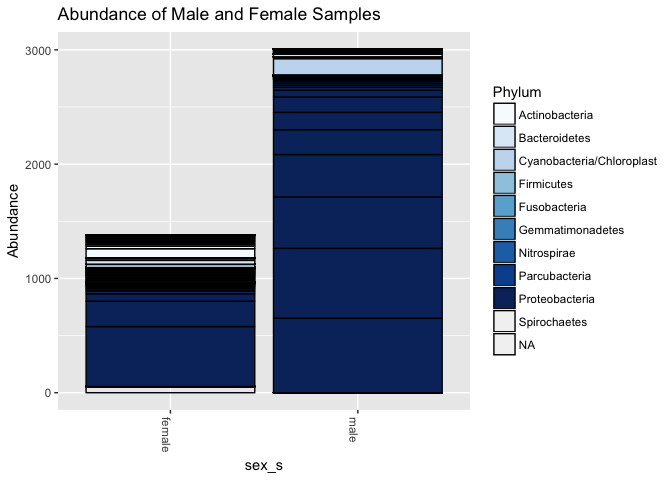
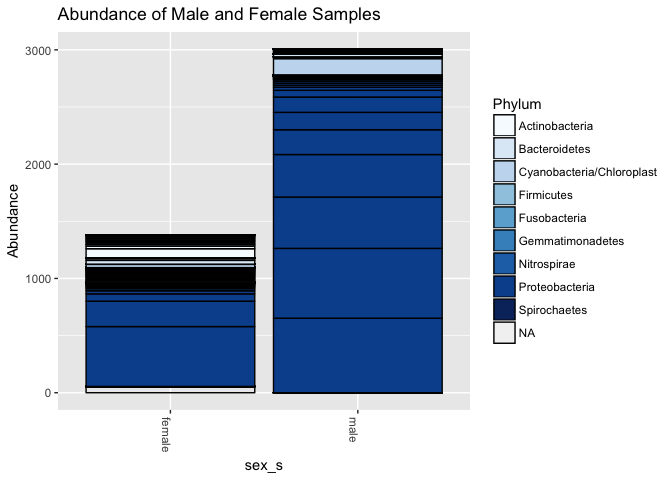
Add Another Final Travis Check

Changed region(s): [[0.4062, 0.1562, 0.6562, 0.8438], [0.7188, 0.1875, 0.9688, 0.75], [0.125, 0.5938, 0.375, 0.8125]]

diff --git a/Analysis_Report_01_amplicons.md b/Analysis_Report_01_amplicons.md
@@ -137,6 +137,27 @@ This table and corresponding error models were built to showcase the read errors
 
 ![](Analysis_Report_01_amplicons_files/figure-markdown_github-ascii_identifiers/visualize-errors-with-plots-1.png)
 
+    ## Not all sequences were the same length.
+    ## Not all sequences were the same length.
+    ## Not all sequences were the same length.
+    ## Not all sequences were the same length.
+    ## Not all sequences were the same length.
+    ## Not all sequences were the same length.
+    ## Not all sequences were the same length.
+    ## Not all sequences were the same length.
+    ## Not all sequences were the same length.
+    ## Not all sequences were the same length.
+    ## Not all sequences were the same length.
+    ## Not all sequences were the same length.
+    ## Not all sequences were the same length.
+    ## Not all sequences were the same length.
+    ## Not all sequences were the same length.
+    ## Not all sequences were the same length.
+    ## Not all sequences were the same length.
+    ## Not all sequences were the same length.
+    ## Not all sequences were the same length.
+    ## Not all sequences were the same length.
+
     ## Sample 1 - 350 reads in 72 unique sequences.
     ## Sample 2 - 194 reads in 163 unique sequences.
     ## Sample 3 - 31 reads in 25 unique sequences.
@@ -201,48 +222,47 @@ Taxonomy was assigned for each sequence to describe which bacterial community wa
     ## Square root transformation
     ## Wisconsin double standardization
     ## Run 0 stress 4.418541e-05 
-    ## Run 1 stress 1.774806e-05 
+    ## Run 1 stress 0 
     ## ... New best solution
-    ## ... Procrustes: rmse 0.2544192  max resid 0.4390854 
-    ## Run 2 stress 5.014041e-05 
-    ## ... Procrustes: rmse 0.2692191  max resid 0.4379943 
+    ## ... Procrustes: rmse 0.2503605  max resid 0.3937541 
+    ## Run 2 stress 9.4848e-05 
+    ## ... Procrustes: rmse 0.274344  max resid 0.4919324 
     ## Run 3 stress 0 
-    ## ... New best solution
-    ## ... Procrustes: rmse 0.2558586  max resid 0.4358941 
-    ## Run 4 stress 0 
-    ## ... Procrustes: rmse 0.2441357  max resid 0.5007867 
-    ## Run 5 stress 0 
-    ## ... Procrustes: rmse 0.2905999  max resid 0.4936811 
-    ## Run 6 stress 9.877069e-05 
-    ## ... Procrustes: rmse 0.2436431  max resid 0.4344127 
-    ## Run 7 stress 3.467413e-05 
-    ## ... Procrustes: rmse 0.1972544  max resid 0.3889932 
-    ## Run 8 stress 0 
-    ## ... Procrustes: rmse 0.304608  max resid 0.5900919 
-    ## Run 9 stress 0 
-    ## ... Procrustes: rmse 0.2720501  max resid 0.5174114 
+    ## ... Procrustes: rmse 0.2467099  max resid 0.3615862 
+    ## Run 4 stress 6.496638e-05 
+    ## ... Procrustes: rmse 0.2715979  max resid 0.3993061 
+    ## Run 5 stress 3.408458e-05 
+    ## ... Procrustes: rmse 0.2661741  max resid 0.4694951 
+    ## Run 6 stress 0 
+    ## ... Procrustes: rmse 0.1874121  max resid 0.4149212 
+    ## Run 7 stress 8.56982e-05 
+    ## ... Procrustes: rmse 0.3092958  max resid 0.5516642 
+    ## Run 8 stress 9.388572e-05 
+    ## ... Procrustes: rmse 0.2254944  max resid 0.3150192 
+    ## Run 9 stress 4.835216e-05 
+    ## ... Procrustes: rmse 0.2571429  max resid 0.4897982 
     ## Run 10 stress 0 
-    ## ... Procrustes: rmse 0.3116968  max resid 0.5266425 
+    ## ... Procrustes: rmse 0.17153  max resid 0.3092111 
     ## Run 11 stress 0 
-    ## ... Procrustes: rmse 0.2540389  max resid 0.4977575 
-    ## Run 12 stress 0 
-    ## ... Procrustes: rmse 0.2988362  max resid 0.6950726 
+    ## ... Procrustes: rmse 0.2727335  max resid 0.5467948 
+    ## Run 12 stress 9.477793e-05 
+    ## ... Procrustes: rmse 0.2812978  max resid 0.6012645 
     ## Run 13 stress 0 
-    ## ... Procrustes: rmse 0.2037999  max resid 0.3889354 
-    ## Run 14 stress 0 
-    ## ... Procrustes: rmse 0.2920002  max resid 0.5300006 
-    ## Run 15 stress 9.103788e-05 
-    ## ... Procrustes: rmse 0.2943784  max resid 0.4245488 
-    ## Run 16 stress 0 
-    ## ... Procrustes: rmse 0.2177722  max resid 0.3423264 
-    ## Run 17 stress 6.708572e-05 
-    ## ... Procrustes: rmse 0.282094  max resid 0.4923372 
-    ## Run 18 stress 2.238904e-05 
-    ## ... Procrustes: rmse 0.2821432  max resid 0.5081279 
-    ## Run 19 stress 0 
-    ## ... Procrustes: rmse 0.2390064  max resid 0.4664535 
-    ## Run 20 stress 9.83126e-05 
-    ## ... Procrustes: rmse 0.2360405  max resid 0.4661816 
+    ## ... Procrustes: rmse 0.2969349  max resid 0.5152367 
+    ## Run 14 stress 5.968682e-05 
+    ## ... Procrustes: rmse 0.3078262  max resid 0.512252 
+    ## Run 15 stress 0 
+    ## ... Procrustes: rmse 0.2872692  max resid 0.4966087 
+    ## Run 16 stress 9.764269e-05 
+    ## ... Procrustes: rmse 0.2680452  max resid 0.4627489 
+    ## Run 17 stress 9.766709e-05 
+    ## ... Procrustes: rmse 0.2450739  max resid 0.4410873 
+    ## Run 18 stress 7.244177e-05 
+    ## ... Procrustes: rmse 0.2741797  max resid 0.4901149 
+    ## Run 19 stress 8.827905e-05 
+    ## ... Procrustes: rmse 0.2997358  max resid 0.4773969 
+    ## Run 20 stress 0 
+    ## ... Procrustes: rmse 0.2970872  max resid 0.4142021 
     ## *** No convergence -- monoMDS stopping criteria:
     ##     20: stress < smin
 
@@ -289,12 +309,7 @@ Analyitics
 
 ![](Analysis_Report_01_amplicons_files/figure-markdown_github-ascii_identifiers/Shannon%20Diversity%20Plot-1.png)
 
-**Figure 5**: Male versus Female bar graph showcasing the phylum present within each bacterial community
-
-    ## Warning in RColorBrewer::brewer.pal(n, pal): n too large, allowed maximum for palette Blues is 9
-    ## Returning the palette you asked for with that many colors
-
-![](Analysis_Report_01_amplicons_files/figure-markdown_github-ascii_identifiers/Abundance%20Taxonomy%20Graph-1.png)
+**Figure 5**: Male versus Female bar graph showcasing the phylum present within each bacterial community ![](Analysis_Report_01_amplicons_files/figure-markdown_github-ascii_identifiers/Abundance%20Taxonomy%20Graph-1.png)
 
 **Figure 6**: Inferred phylogeny of sequences, with points on tips representing samples within which each particular taxa occurred. Tree represents maximum likelihood phylogeny inferred using RAxML.
 
@@ -404,9 +419,9 @@ Plotting an ordination is a measure for quantifying richness and diversity simul
 
 ### Conclusion
 
-Overall, we utilize measures of abundance, richness, and diversity to prove male and female hands have different bacterial communities. We see that males house a community of more abundant bacteria that are more closely related overall, while females have less bacteria but of more diverse morphologies. We also explain that though the communities are overall different they do represent similarities in the phylum of bacteria seen for both sex samples (Proteobacteria), which is most likely from the overall similar environment the study participants live in (University of Colorado at Boulder). We can postulate that the microbiota on the male hand are less diverse because of the skin pH, which is nominally different between the two sexes due to sweat glands which produce a more acidic environment unfavorable to many microbiota and are stimulated by hormonal differences between the sexes {Fierer *et al.* (2008)}. These conditions would also account for differences observed in abundance and richness.
+Overall, we utilize measures of abundance, richness, and diversity to prove male and female hands have different bacterial communities. We see that males house a community of more abundant bacteria that are more closely related overall, while females have less bacteria but of more diverse morphologies. We also explain that though the communities are overall different they do represent similarities in the phylum of bacteria seen for both sex samples (Proteobacteria), which is most likely from the overall similar environment the study participants live in (University of Colorado at Boulder). We can postulate that the microbiota on the male hand are less diverse because of the skin pH, which is nominally different between the two sexes due to sweat glands which produce a more acidic environment unfavorable to many microbiota and are stimulated by hormonal differences between the sexes {Fierer *et al.* (2008)}. These conditions would also account for differences observed in abundance and richness. Testosterone production can effect sweat glands on the human skin, which are known for maintaining and regulated body temperature and expelling toxins to support immune responses (KUWAHARA *et al.*, 2006).
 
-Further studies need to be conducted to directly prove this association with pH, and simultaneously disprove these conclusions for the different bacterial communities are not from hygiene differences or social constructs which imply females using more cosmetic products. By understanding these differences between sexes we can develop a better understanding of how these differences can be responsible for changes in the health and well-being of individuals studied.
+Further studies need to be conducted to directly prove this association with pH, and simultaneously disprove these conclusions for the different bacterial communities are not from hygiene differences or social constructs which imply females using more cosmetic products. More information also needs to be found regarding the production of testosterone and it's correlation to sweat gland activity versus estrogen. By understanding these differences between sexes, we can develop a better understanding of how these differences can be responsible for changes in the health and well-being of individuals studied.
 
 Sources Cited
 =============
@@ -418,6 +433,8 @@ Fierer,N. *et al.* (2008) The influence of sex, handedness, and washing on the d
 Fierer,N. *et al.* (2010) Forensic identification using skin bacterial communities. *Proceedings of the National Academy of Sciences*, **107**, 6477–6481.
 
 Fuhrman,J.A. (1999) Marine viruses and their biogeochemical and ecological effects. *Nature*, **399**, 541–548.
+
+KUWAHARA,T. *et al.* (2006) Sex differences in effects of physical training on sweat gland function (proceedings of the 54th meeting of japan society of physiological anthropology). *Journal of physiological anthropology*, **25**, 200.
 
 Markle,J.G. *et al.* (2013) Sex differences in the gut microbiome drive hormone-dependent regulation of autoimmunity. *Science*, **339**, 1084–1088.
 
